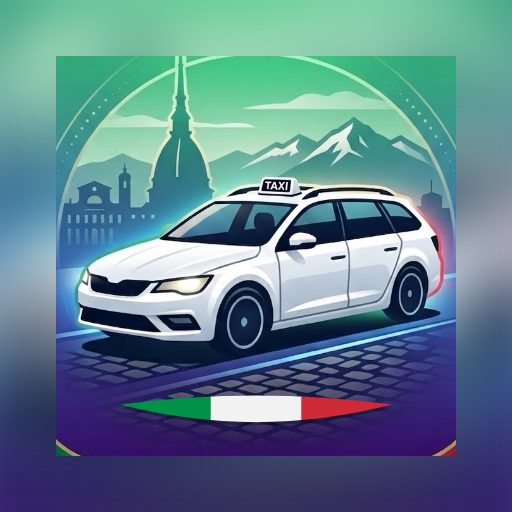
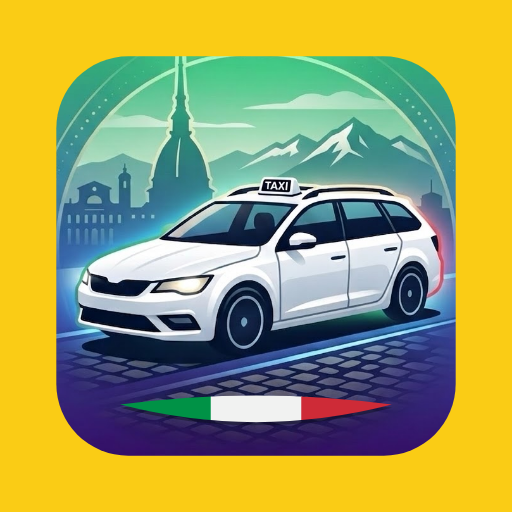
Si installa come una vera app: il controllo, e sei difetti che nascondeva (v142)
Nuova prova prove/installabile.mjs: misura tutto quello che decide se
TaxiManager, aggiunto alla schermata Home, si comporta da app e non da
pagina web. Il giudizio sul manifesto lo da' il browser stesso
(Page.getAppManifest), lo stesso codice che decide se proporre
l'installazione; le icone vengono aperte e misurate un punto alla volta;
poi la rete si stacca per controllare che start_url apra l'app.

Sei difetti trovati e corretti:
- icona maskable senza vera cornice: al posto del margine c'era l'arte
  sfocata e ingrandita, quindi il ritaglio tondo di Android si mangiava
  muso e coda dell'auto. Corretto in strumenti/icone.mjs (margine giallo
  taxi pieno, arte dentro la zona sicura) e rigenerata da sorgente: le
  altre sei icone tornano identiche al byte
- la stessa icona aveva punti trasparenti (neri su iPhone)
- background_color #f9fafb contro lo sfondo vero #faf9f6: lampo di
  colore diverso all'apertura
- manifesto senza id
- mancava la riga mobile-web-app-capable (c'era solo quella per iPhone)
- il messaggio di servizio stava a 96 punti dal fondo: la barra in basso
  e' alta 63, ma sull'iPhone cresce di altri 34 per la barra di casa e
  ci finiva sopra. Ora l'altezza si somma invece di indovinarla

Corretto anche un difetto della prova: cercando la regola CSS nei fogli
di stile saltava proprio quella giusta, perche' nei browser nuovi ogni
regola ha una lista di regole annidate, quasi sempre vuota, e scendendo
li' dentro la regola stessa non la si guardava mai.
[…]

diff --git a/index.html b/index.html
@@ -58,6 +58,10 @@
     <!-- PWA: installazione su telefono -->
     <link rel="manifest" href="manifest.json">
     <meta name="theme-color" content="#facc15">
+    <!-- Le due righe che dicono "aggiunta alla Home, aprimi come un'app, senza
+         la barra del browser": la prima e' quella che capisce Android, la
+         seconda quella che capisce l'iPhone. Servono tutte e due. -->
+    <meta name="mobile-web-app-capable" content="yes">
     <meta name="apple-mobile-web-app-capable" content="yes">
     <meta name="apple-mobile-web-app-status-bar-style" content="default">
     <meta name="apple-mobile-web-app-title" content="TaxiManager">
@@ -277,6 +281,17 @@
             box-shadow: 0 -2px 12px rgba(24,22,17,.05);
         }
 
+        /* IL MESSAGGIO DI SERVIZIO SOPRA LA BARRA, ANCHE SULL'IPHONE
+           Il messaggio stava a 6rem dal fondo: giusto su un telefono senza
+           barra di casa, perche' la barra in basso e' alta 63 punti. Ma
+           sull'iPhone la barra in basso si allunga di altri 34 punti per
+           stare sopra la barra di casa - e il messaggio ci finiva sopra,
+           proprio mentre dice «corsa registrata». Qui l'altezza si somma
+           invece di indovinarla. Da tablet in su la barra non c'e' e il
+           messaggio torna in basso a destra. */
+        #toast { bottom: calc(6rem + env(safe-area-inset-bottom)); }
+        @media (min-width: 768px) { #toast { bottom: 1.25rem; } }
+
         /* Il simbolo dell'euro accanto a una cifra grande: piu' piccolo e piu'
            tenue del numero. Da lontano si legge «116,50», non «€». */
         .cifra-euro { font-size: 0.6em; font-weight: 600; opacity: 0.45; margin-left: 0.12em; }
@@ -429,7 +444,7 @@
     </div>
 
     <!-- Toast Notifica -->
-    <div id="toast" role="status" aria-live="polite" class="hidden fixed bottom-24 md:bottom-5 right-5 left-5 md:left-auto justify-center md:justify-start bg-gray-900 text-yellow-400 px-5 py-3 rounded-xl shadow-2xl z-50 items-center space-x-2 border border-yellow-400/30 slide-in font-bold text-sm no-print">
+    <div id="toast" role="status" aria-live="polite" class="hidden fixed right-5 left-5 md:left-auto justify-center md:justify-start bg-gray-900 text-yellow-400 px-5 py-3 rounded-xl shadow-2xl z-50 items-center space-x-2 border border-yellow-400/30 slide-in font-bold text-sm no-print">
         <span id="toast-text">Messaggio</span>
     </div>
 
@@ -1230,7 +1245,7 @@
         // Versione di questa pagina. Serve a sapere in un colpo d'occhio se il
         // telefono sta usando l'ultima copia o una vecchia rimasta in cache:
         // finora c'era scritto "V28" a mano e non voleva dire niente.
-        const VERSIONE_APP = 141;
+        const VERSIONE_APP = 142;
 
         function profiloCompilato() {
             const p = window.profilo || {};

diff --git a/sw.js b/sw.js
@@ -2,7 +2,7 @@
    Cambia il numero di VERSIONE ogni volta che aggiorni l'app:
    è così che il telefono capisce che deve scaricare la versione nuova. */
 
-const VERSIONE = 'taximanager-v141';
+const VERSIONE = 'taximanager-v142';
 
 // File dell'app da tenere sempre disponibili offline
 const FILE_APP = [

diff --git a/README.md b/README.md
@@ -69,6 +69,46 @@ cancellare a mano dalla console quando il nuovo accesso funziona su tutti i disp
 Da `Cloud & Sync` si scarica un backup completo in JSON (movimenti, turni, scadenze e
 impostazioni fiscali) e un CSV dell'anno da passare al commercialista.
 
+## Si installa come una vera app: il controllo, e sei difetti che nascondeva (versione 142)
+
+TaxiManager è una PWA: aggiunta alla schermata Home di un iPhone o di un telefono
+Android si apre a tutto schermo, senza la barra del browser, e funziona senza campo.
+Quello che decide se si comporta da app o da pagina web non si vede mai guardando
+l'app: sta nel manifesto, nelle icone e in tre righe dell'intestazione. Finché
+nessuno lo misura, un difetto lì dentro non dà nessun segnale.
+
+La prova nuova, `prove/installabile.mjs`, lo misura. Il giudizio sul manifesto non
+lo diamo noi: lo chiede al browser stesso (`Page.getAppManifest`), che è lo stesso
+codice che decide se proporre l'installazione. Poi apre davvero le icone e le
+misura un punto alla volta, legge l'intestazione della pagina, confronta il colore
+della schermata di apertura con lo sfondo vero, calcola se la barra in basso e il
+messaggio di servizio stanno sopra la barra di casa dell'iPhone, e infine stacca la
+rete per controllare che `start_url` apra l'app e non la pagina di errore.
+
+Alla prima passata ha trovato sei cose, tutte vere, tutte invisibili a occhio:
+
+| Cosa | Perché contava |
+| --- | --- |
+| L'icona ritagliabile non aveva una vera cornice | Android non mostra l'icona com'è: la taglia con la forma di sistema. Al posto del margine c'era l'arte stessa sfocata e ingrandita - sembrava una cornice, ma restava disegno: il ritaglio tondo si portava via il muso e la coda dell'auto |
+| La stessa icona aveva punti trasparenti | Sull'iPhone i punti trasparenti diventano neri |
+| `background_color` era `#f9fafb`, lo sfondo vero `#faf9f6` | La carta dell'app era diventata calda e il manifesto era rimasto al grigio di prima: all'apertura si vedeva un lampo di colore diverso |
+| Mancava `id` nel manifesto | È il nome con cui il telefono riconosce l'app: senza, cambiando l'indirizzo di partenza la crede un'altra |
+| Mancava `mobile-web-app-capable` | C'era solo la riga per l'iPhone, non quella che legge Android |
+| Il messaggio di servizio stava a 96 punti dal fondo | La barra in basso è alta 63, ma sull'iPhone si allunga di altri 34 per stare sopra la barra di casa: il messaggio ci finiva sopra, proprio mentre dice «corsa registrata». Adesso l'altezza si somma invece di indovinarla |
+
+L'icona non è stata ritoccata a mano: è stato corretto `strumenti/icone.mjs`, che la
+rigenera da `icona-sorgente.jpg`. Ora il margine è giallo taxi pieno e l'arte sta
+tutta dentro la zona sicura. Le altre sei icone sono tornate identiche al byte, il
+che dice che lo strumento è deterministico.
+
+**Un difetto della prova stessa, per ricordarselo.** Il controllo sul messaggio di
+servizio continuava a fallire anche dopo la correzione. Il valore già calcolato non
+serviva - `env(safe-area-inset-bottom)` sul computer vale zero - e bisognava andare a
+leggere la regola nel foglio di stile. Ma la ricerca saltava proprio quella regola:
+nei browser nuovi ogni regola CSS ha una lista di regole annidate, quasi sempre
+vuota, e scendendo lì dentro la regola stessa non la si guardava mai. Una prova che
+dice «rotto» quando è a posto fa perdere tempo quanto una che tace.
+
 ## Le note: quello che è successo, con la sua data (versione 141)
 
 Una scheda nuova in **Gestione → Note**. Serve a rispondere a una domanda che

diff --git a/prove/LEGGIMI.md b/prove/LEGGIMI.md
@@ -54,6 +54,7 @@ se sta altrove: `PLAYWRIGHT=/percorso/playwright/index.mjs sh prove/tutte.sh`.
 | `testCspViva.mjs` | la protezione sugli indirizzi è davvero applicata, e l'interruttore la toglie |
 | `testDisegni.mjs` | i sei pacchetti del Cloud fanno un disegno, non sei |
 | `testAggiorna.mjs` | con un server che si comporta come GitHub Pages (`max-age=600`), la versione nuova si porta la pagina nuova e non quella rimasta nella cache HTTP |
+| `installabile.mjs` | si installa come una vera app: manifesto giudicato dal browser, icone misurate davvero, zona sicura dell'icona ritagliabile, colore della barra, schermata di apertura, spazio per la barra di casa dell'iPhone, apertura senza campo |
 | `testSW.mjs` | il service worker su HTTP: apertura dalla copia salvata, versione nuova in attesa |
 | `avvio.mjs`, `profilo2.mjs` | quanto costa avviare l'app e disegnare ogni schermata |
 
